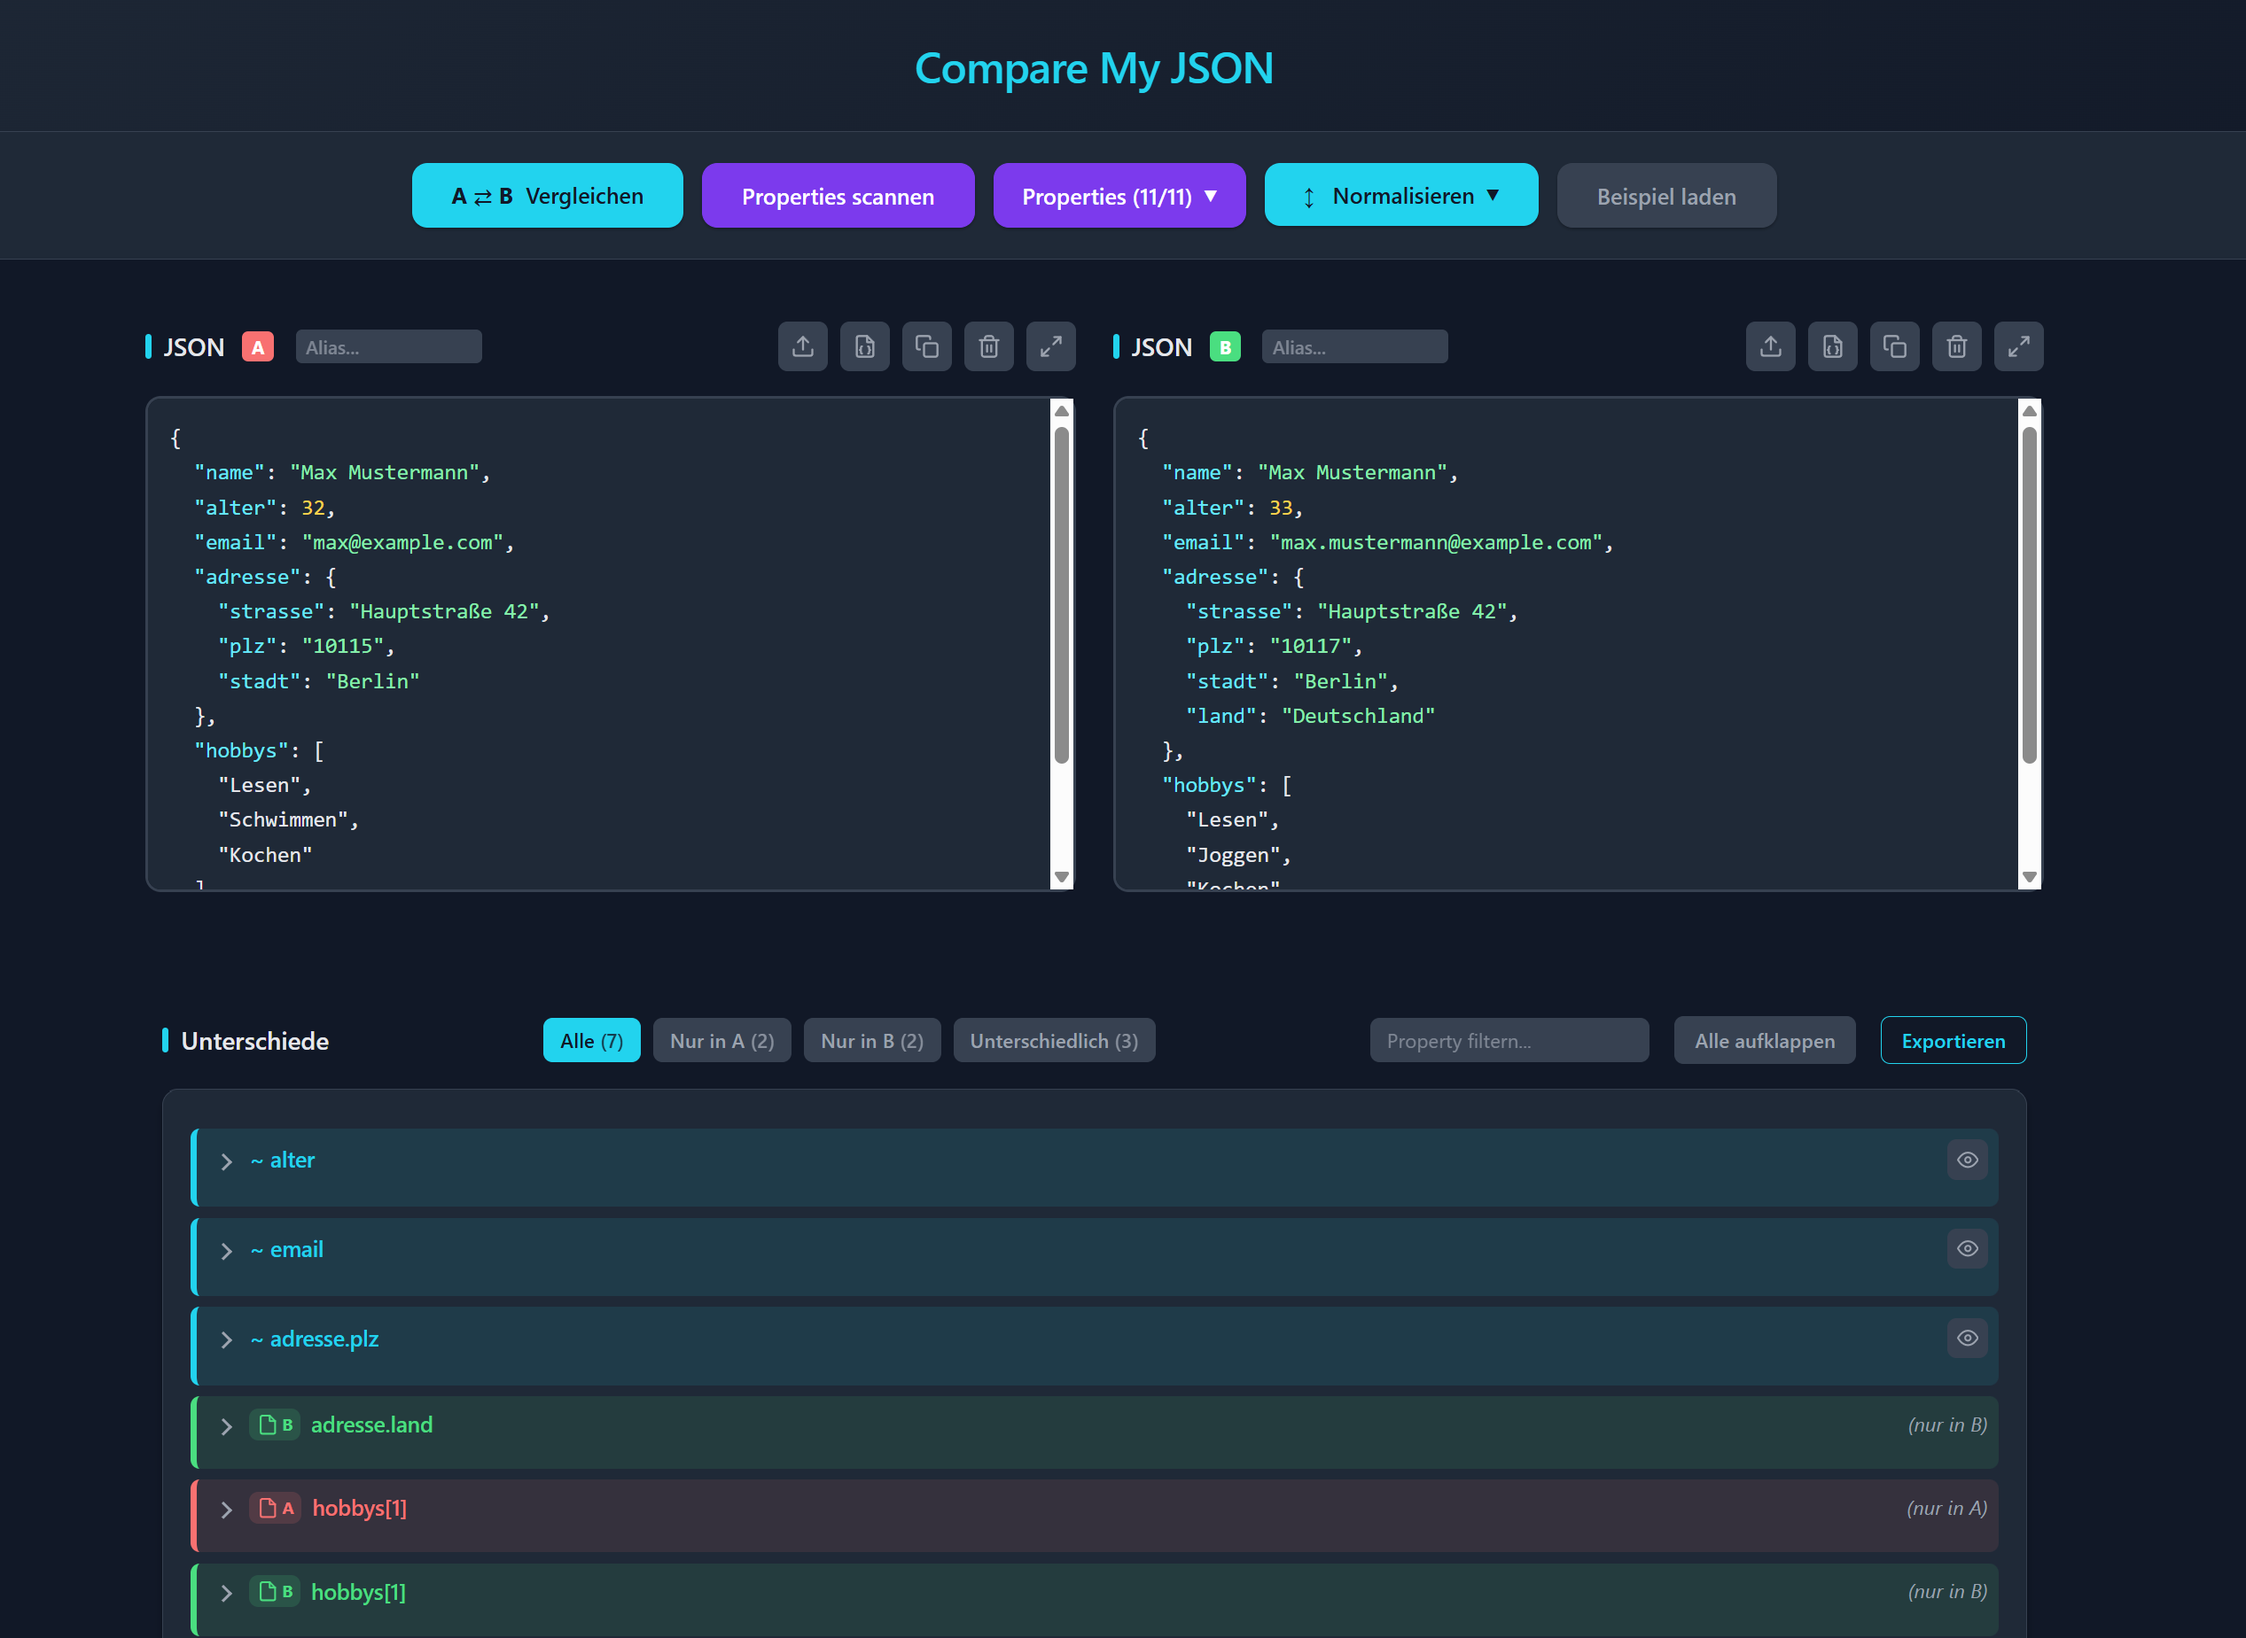
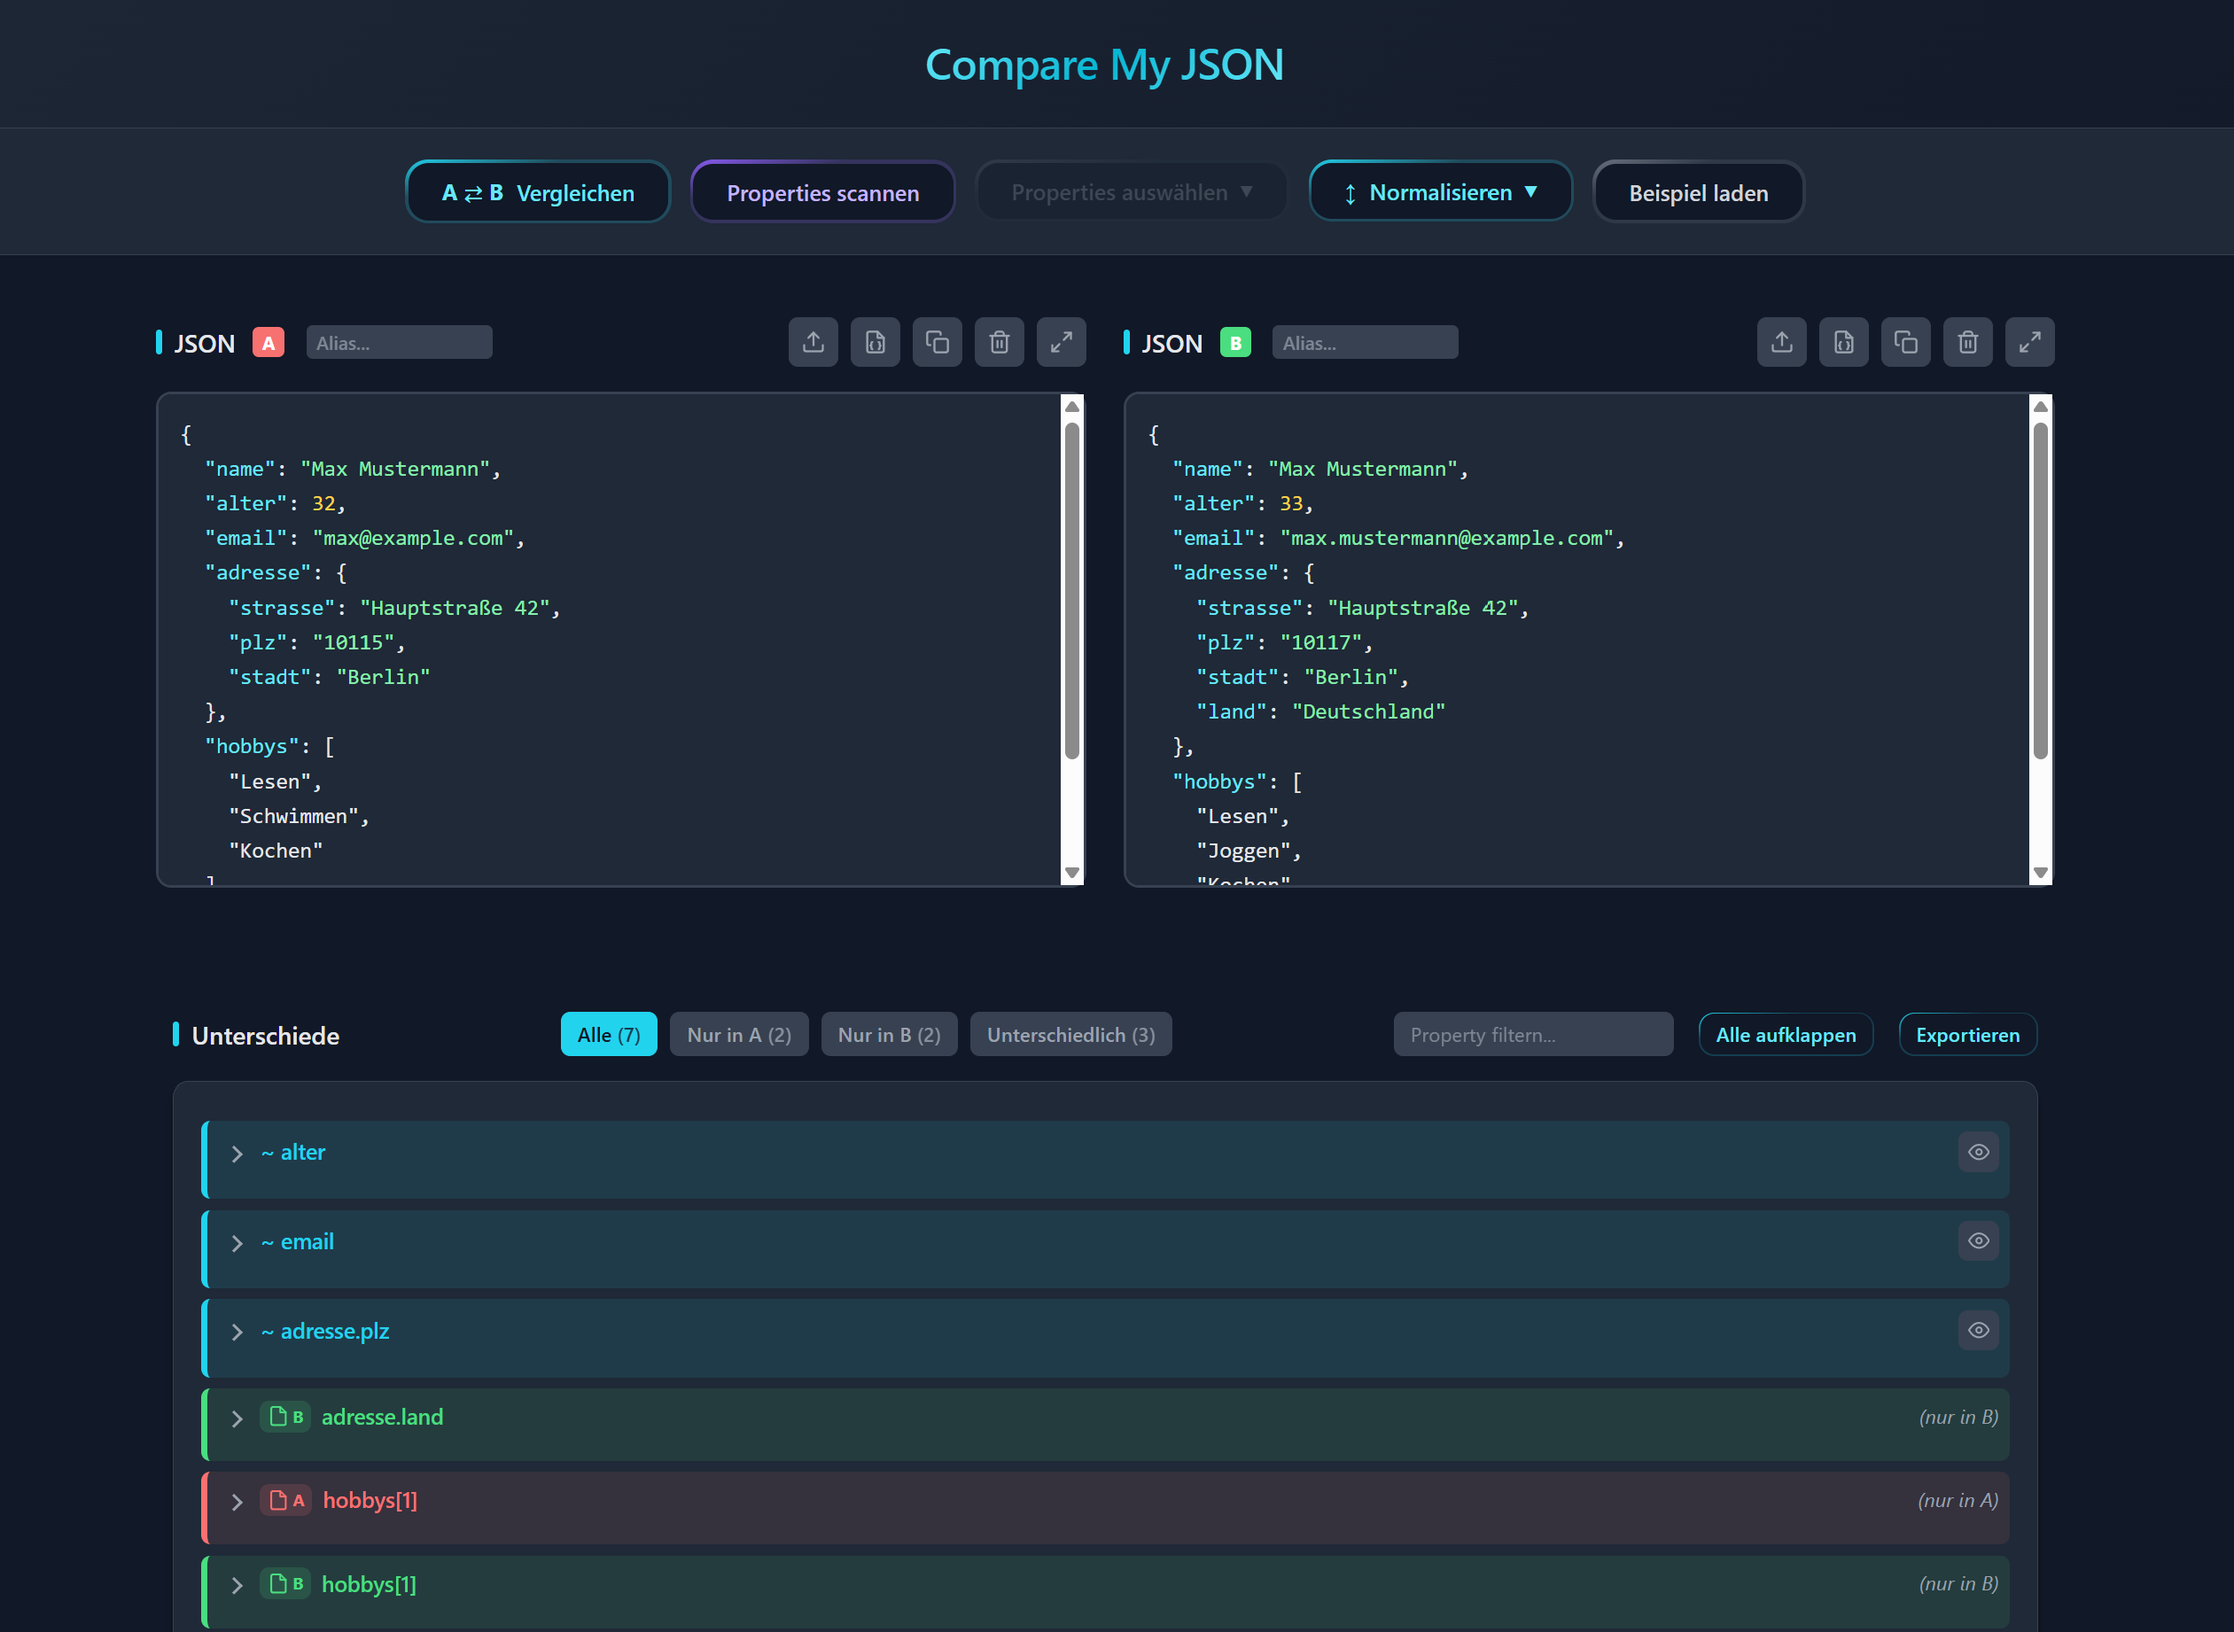
add some style changes

diff --git a/script.js b/script.js
@@ -340,7 +340,7 @@ document.addEventListener('DOMContentLoaded', function() {
         diffHighlightsB = [];
         highlightedPaths = new Set();
         allCollapsed = true;
-        toggleAllBtn.textContent = 'Alle aufklappen';
+        toggleAllBtn.innerHTML = '<span class="styled-btn-inner">Alle aufklappen</span>';
         currentFilter = 'all';
         propertyFilterValue = '';
         propertyFilter.value = '';
@@ -1385,7 +1385,7 @@ document.addEventListener('DOMContentLoaded', function() {
             }
         });
 
-        toggleAllBtn.textContent = allCollapsed ? 'Alle aufklappen' : 'Alle zuklappen';
+        toggleAllBtn.innerHTML = '<span class="styled-btn-inner">' + (allCollapsed ? 'Alle aufklappen' : 'Alle zuklappen') + '</span>';
     }
 
     function exportResults() {
@@ -1907,7 +1907,7 @@ document.addEventListener('DOMContentLoaded', function() {
     function displayDifferences(differences) {
         diffResult.innerHTML = '';
         allCollapsed = true;
-        toggleAllBtn.textContent = 'Alle aufklappen';
+        toggleAllBtn.innerHTML = '<span class="styled-btn-inner">Alle aufklappen</span>';
         currentFilter = 'all';
 
         const nameA = aliasA.value.trim() || 'A';

diff --git a/compare.html b/compare.html
@@ -128,8 +128,12 @@
         <div class="property-filter">
           <input type="text" id="propertyFilter" placeholder="Property filtern..." title="z.B. 'email' oder 'adresse.plz'">
         </div>
-        <button id="toggleAllBtn" class="toggle-all-btn">Alle zuklappen</button>
-        <button id="exportBtn" class="export-btn">Exportieren</button>
+        <button id="toggleAllBtn" class="styled-btn styled-btn-primary styled-btn-sm">
+          <span class="styled-btn-inner">Alle zuklappen</span>
+        </button>
+        <button id="exportBtn" class="styled-btn styled-btn-primary styled-btn-sm">
+          <span class="styled-btn-inner">Exportieren</span>
+        </button>
       </div>
       <div id="diffResult" class="diff-result"></div>
     </div>

diff --git a/styles.css b/styles.css
@@ -72,7 +72,15 @@ html, body {
     font-weight: 600;
     letter-spacing: -0.5px;
     font-size: 1.75rem;
-    color: var(--primary-color);
+    background: linear-gradient(
+        135deg,
+        var(--cyan-300) 0%,
+        var(--cyan-500) 50%,
+        var(--cyan-300) 100%
+    );
+    -webkit-background-clip: text;
+    -webkit-text-fill-color: transparent;
+    background-clip: text;
 }
 
 .controls {
@@ -171,6 +179,18 @@ html, body {
 
 .styled-btn-gray .styled-btn-inner {
     color: var(--gray-300);
+}
+
+/* Small Button Variant */
+.styled-btn-sm {
+    border-radius: 10px;
+    padding: 1px;
+}
+
+.styled-btn-sm .styled-btn-inner {
+    padding: 0.35em 0.8em;
+    border-radius: 9px;
+    font-size: 0.8rem;
 }
 
 /* Disabled State */
